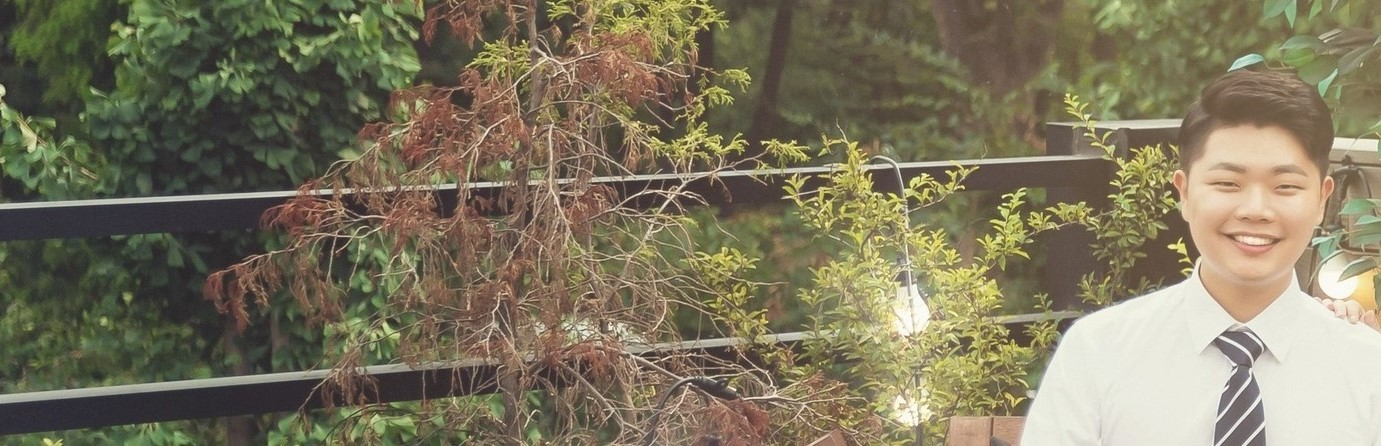
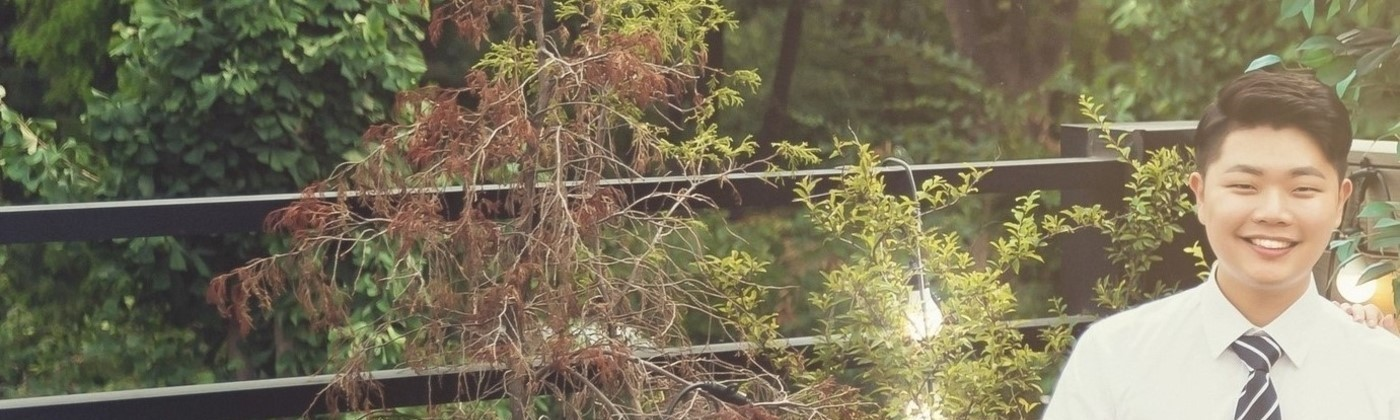
update

diff --git a/_sections/about-me.html b/_sections/about-me.html
@@ -4,7 +4,7 @@ icon: fa-user
 order: 1
 ---
 
-<span class="image fit"><img src="assets/images/pic08.jpg" alt="" /></span>
+<span class="image featured"><img src="assets/images/pic08.jpg" alt="" /></span>
 <h2>손보광</h2>
 <h3>Mobile App Developer</h3>
 
